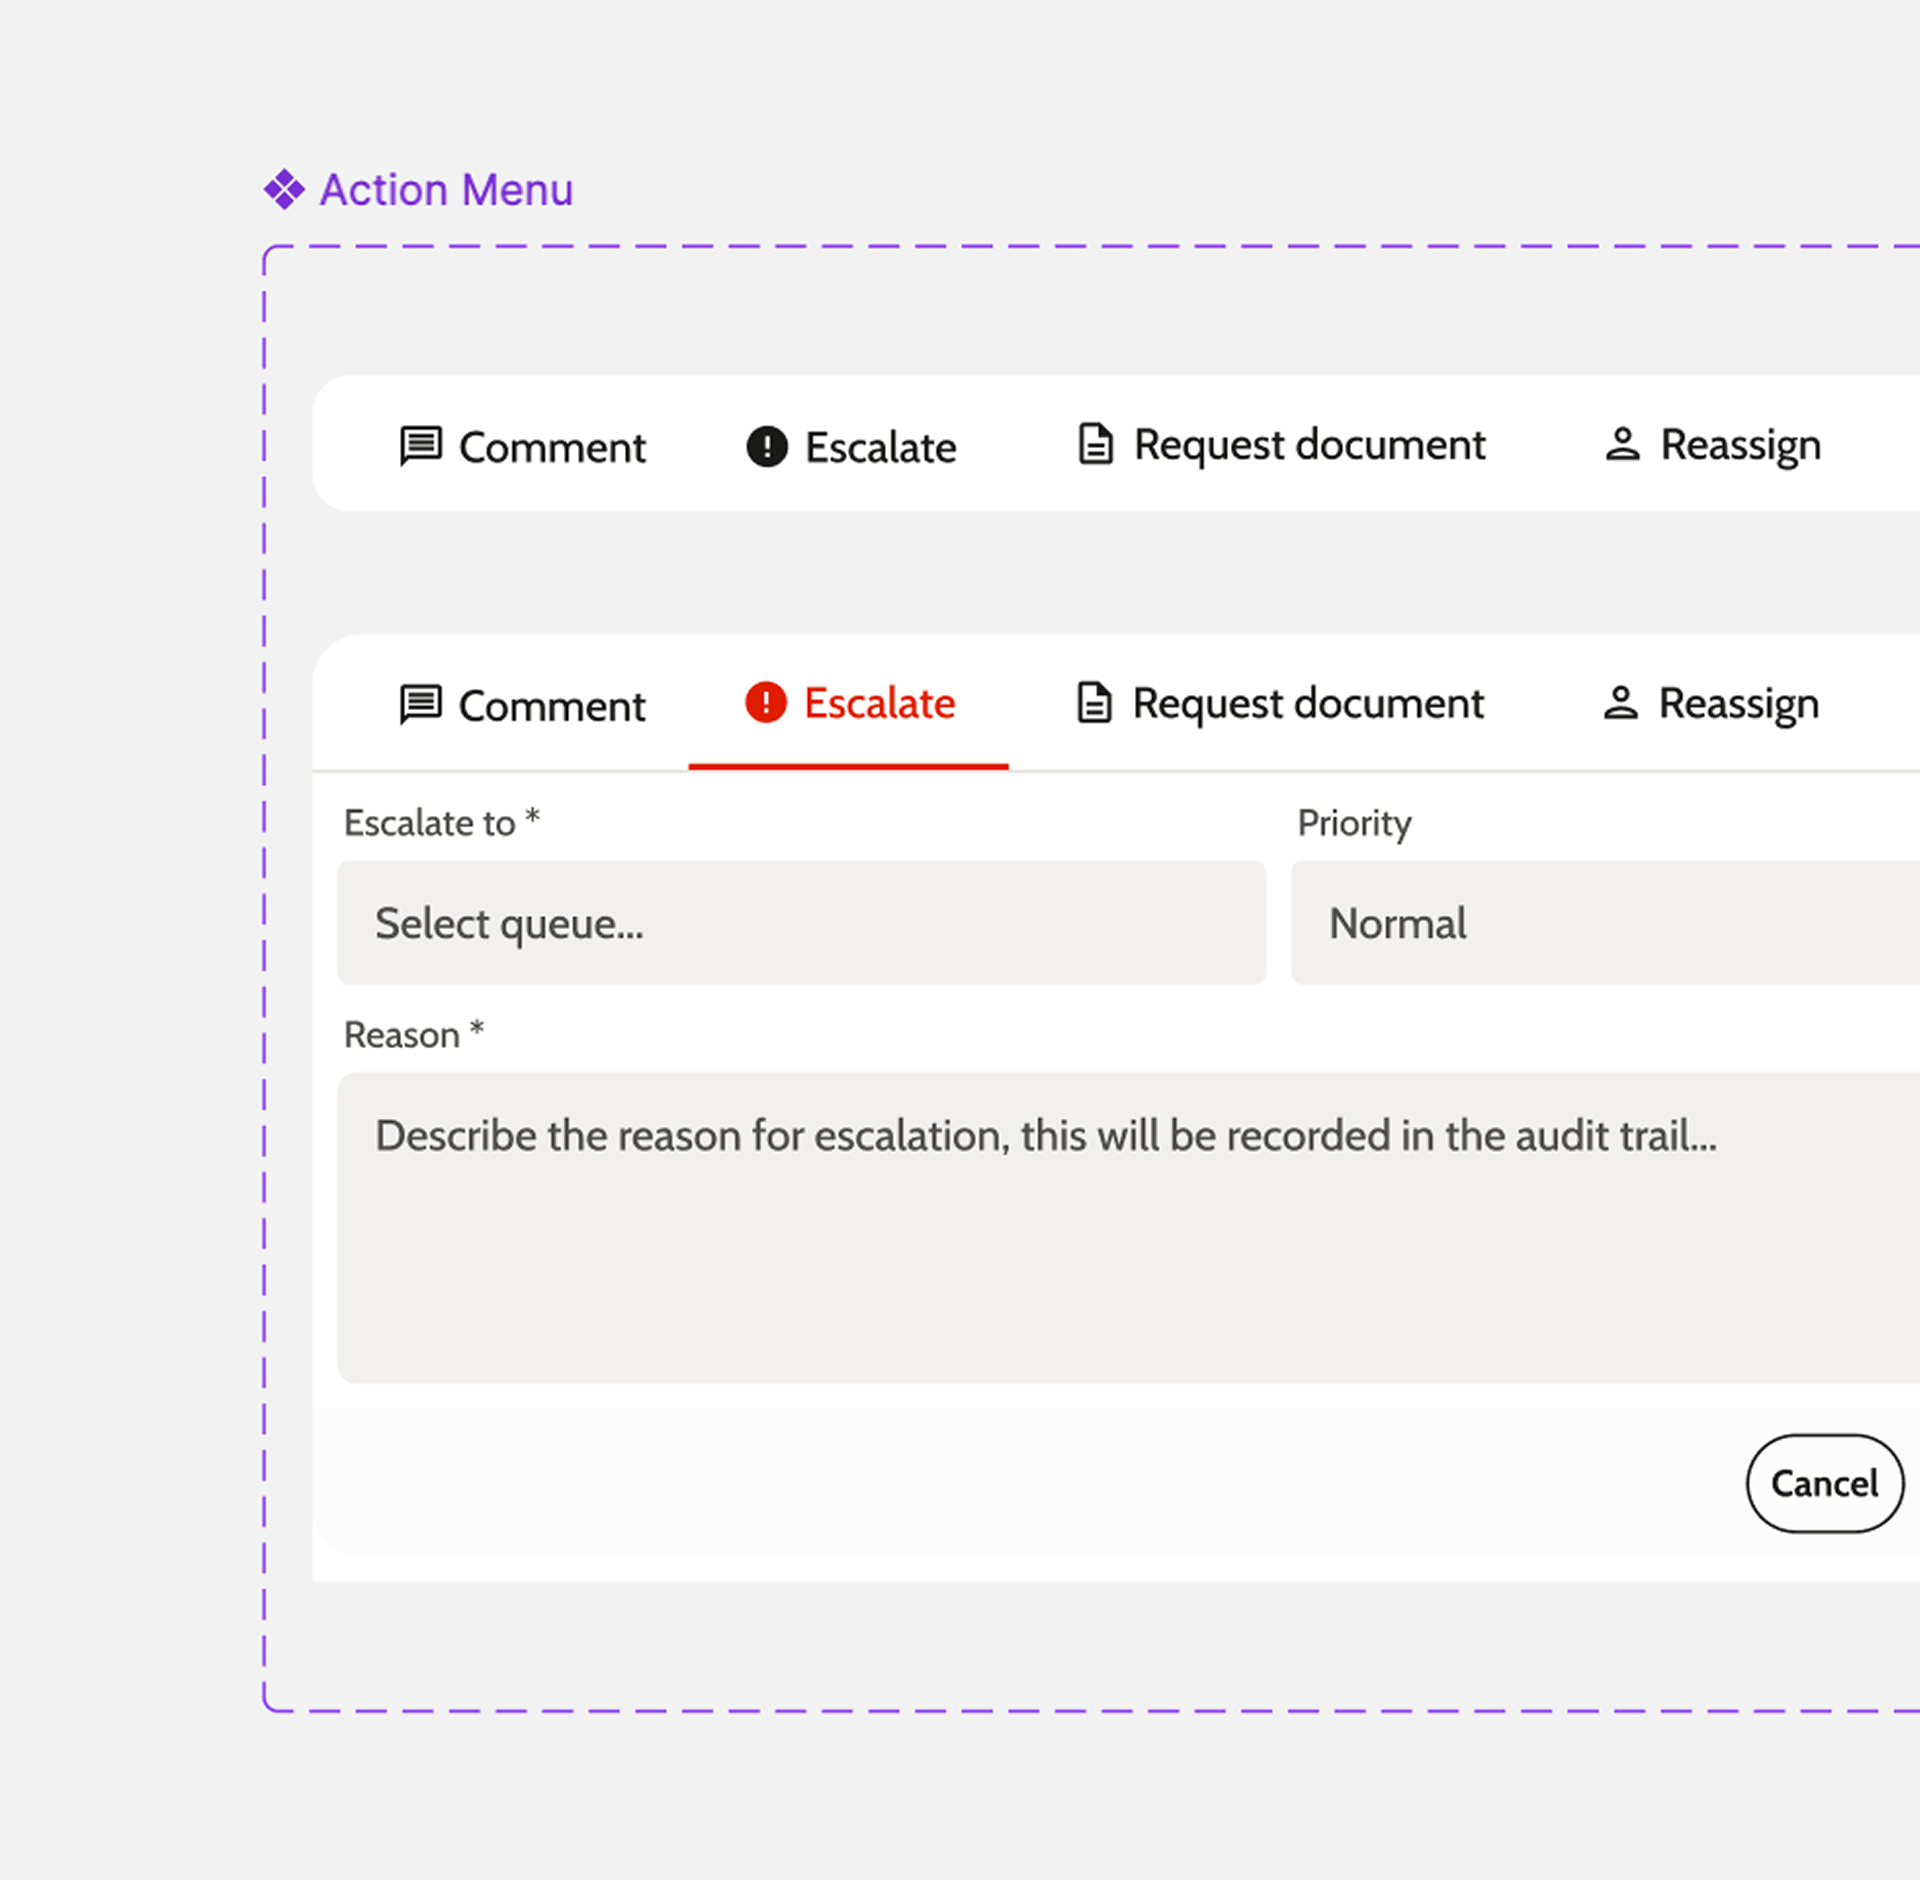
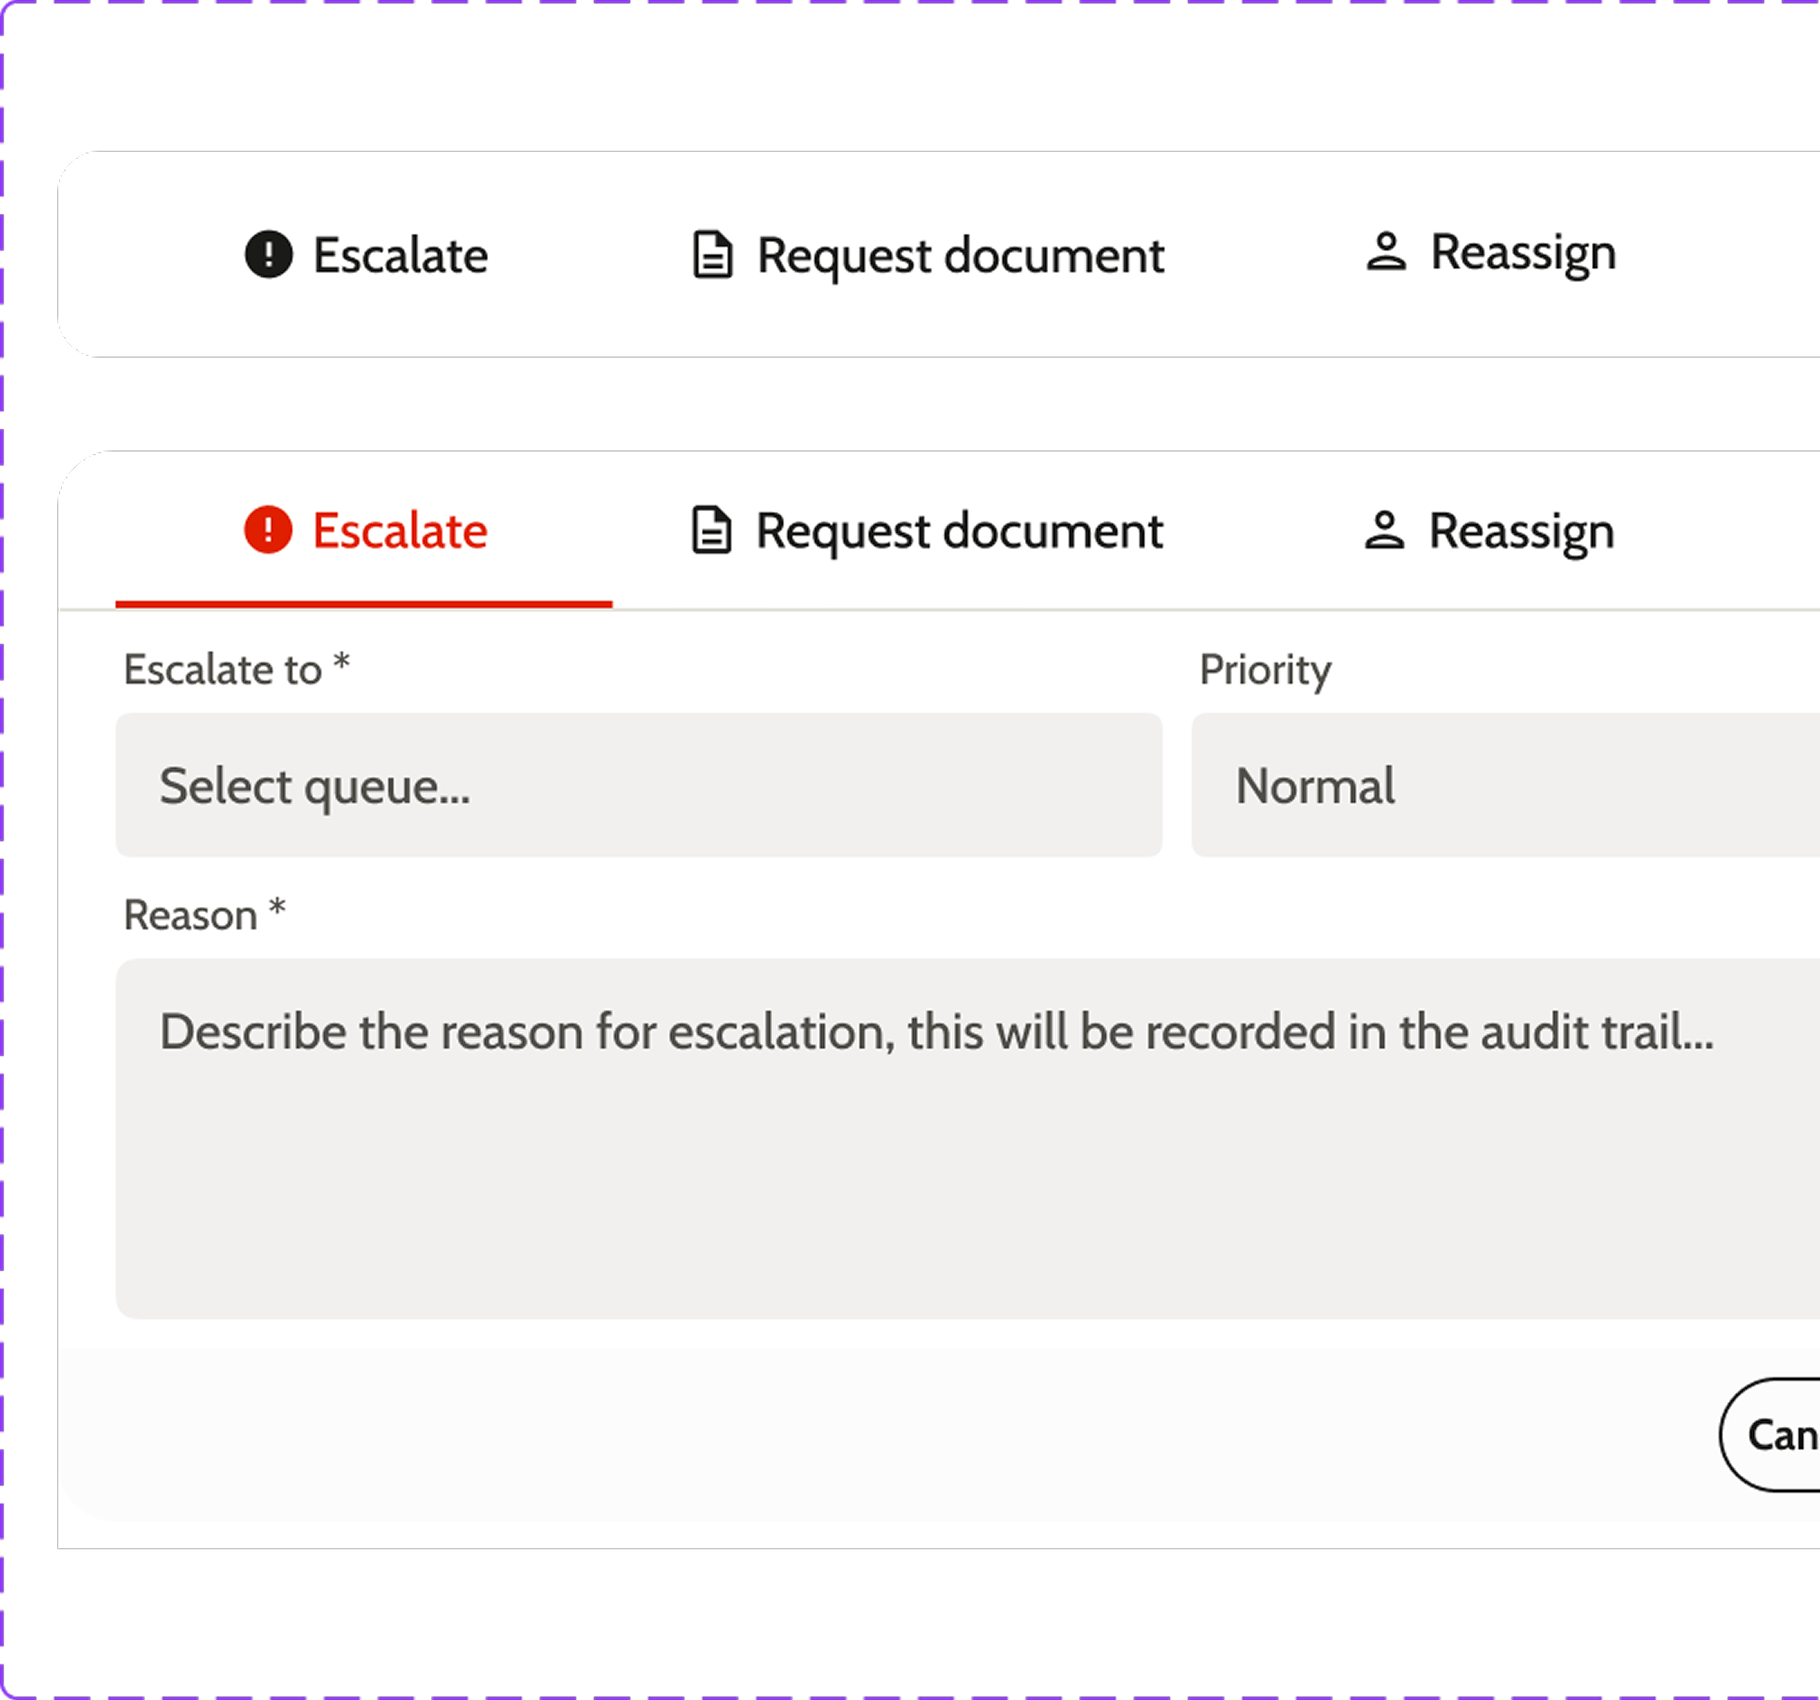
Inset paired decision images for clean rounded corners (#128)
* Inset paired decision images on the grey mat for clean rounded corners

The audit-trail image runs content to its edges, so a clipped rounded
corner always revealed a mismatched color. Add a small grey inset so the
images float on the #f2f2f2 mat and the rounded outer corners are pure
grey; the matching grey keeps the action-menu image seamless.

* Update clm-action-menu image to latest upload

Move the re-uploaded action-menu screenshot from repo root into assets/
and bump its cache-bust to v=2.

---------

diff --git a/styles.css b/styles.css
@@ -1817,10 +1817,15 @@ body.n-bg .site-header.is-scrolled {
 .n-img-pair .n-img-block {
   margin-top: 0;
   border-radius: 1rem;
-  /* Grey fill matches the screenshots' own background, so the shorter
-     image extends cleanly to equal height and the rounded corners read
-     against grey instead of the white card behind. */
+  /* Grey mat matches the screenshots' own background. A small inset lets
+     the images float on it, so the rounded outer corners are pure grey
+     (never cutting into the image content) and the shorter image extends
+     with grey to equal height. */
   background: #f2f2f2;
+  padding: clamp(0.875rem, 2vw, 1.25rem);
+}
+.n-img-pair .n-img-block img {
+  border-radius: 0.5rem;
 }
 @media (max-width: 700px) {
   .n-img-pair {

diff --git a/case-rakbank.html b/case-rakbank.html
@@ -180,7 +180,7 @@
               <img src="assets/clm-audit-trail.png?v=1" alt="Audit trail: every system event and user action, with actor, timestamp, and the remark behind each decision" />
             </div>
             <div class="n-img-block n-img-block--flush">
-              <img src="assets/clm-action-menu.png?v=1" alt="Case action menu: escalating, reassigning, or routing prompts a structured reason that becomes part of the record" />
+              <img src="assets/clm-action-menu.png?v=2" alt="Case action menu: escalating, reassigning, or routing prompts a structured reason that becomes part of the record" />
             </div>
           </div>
         </div>
